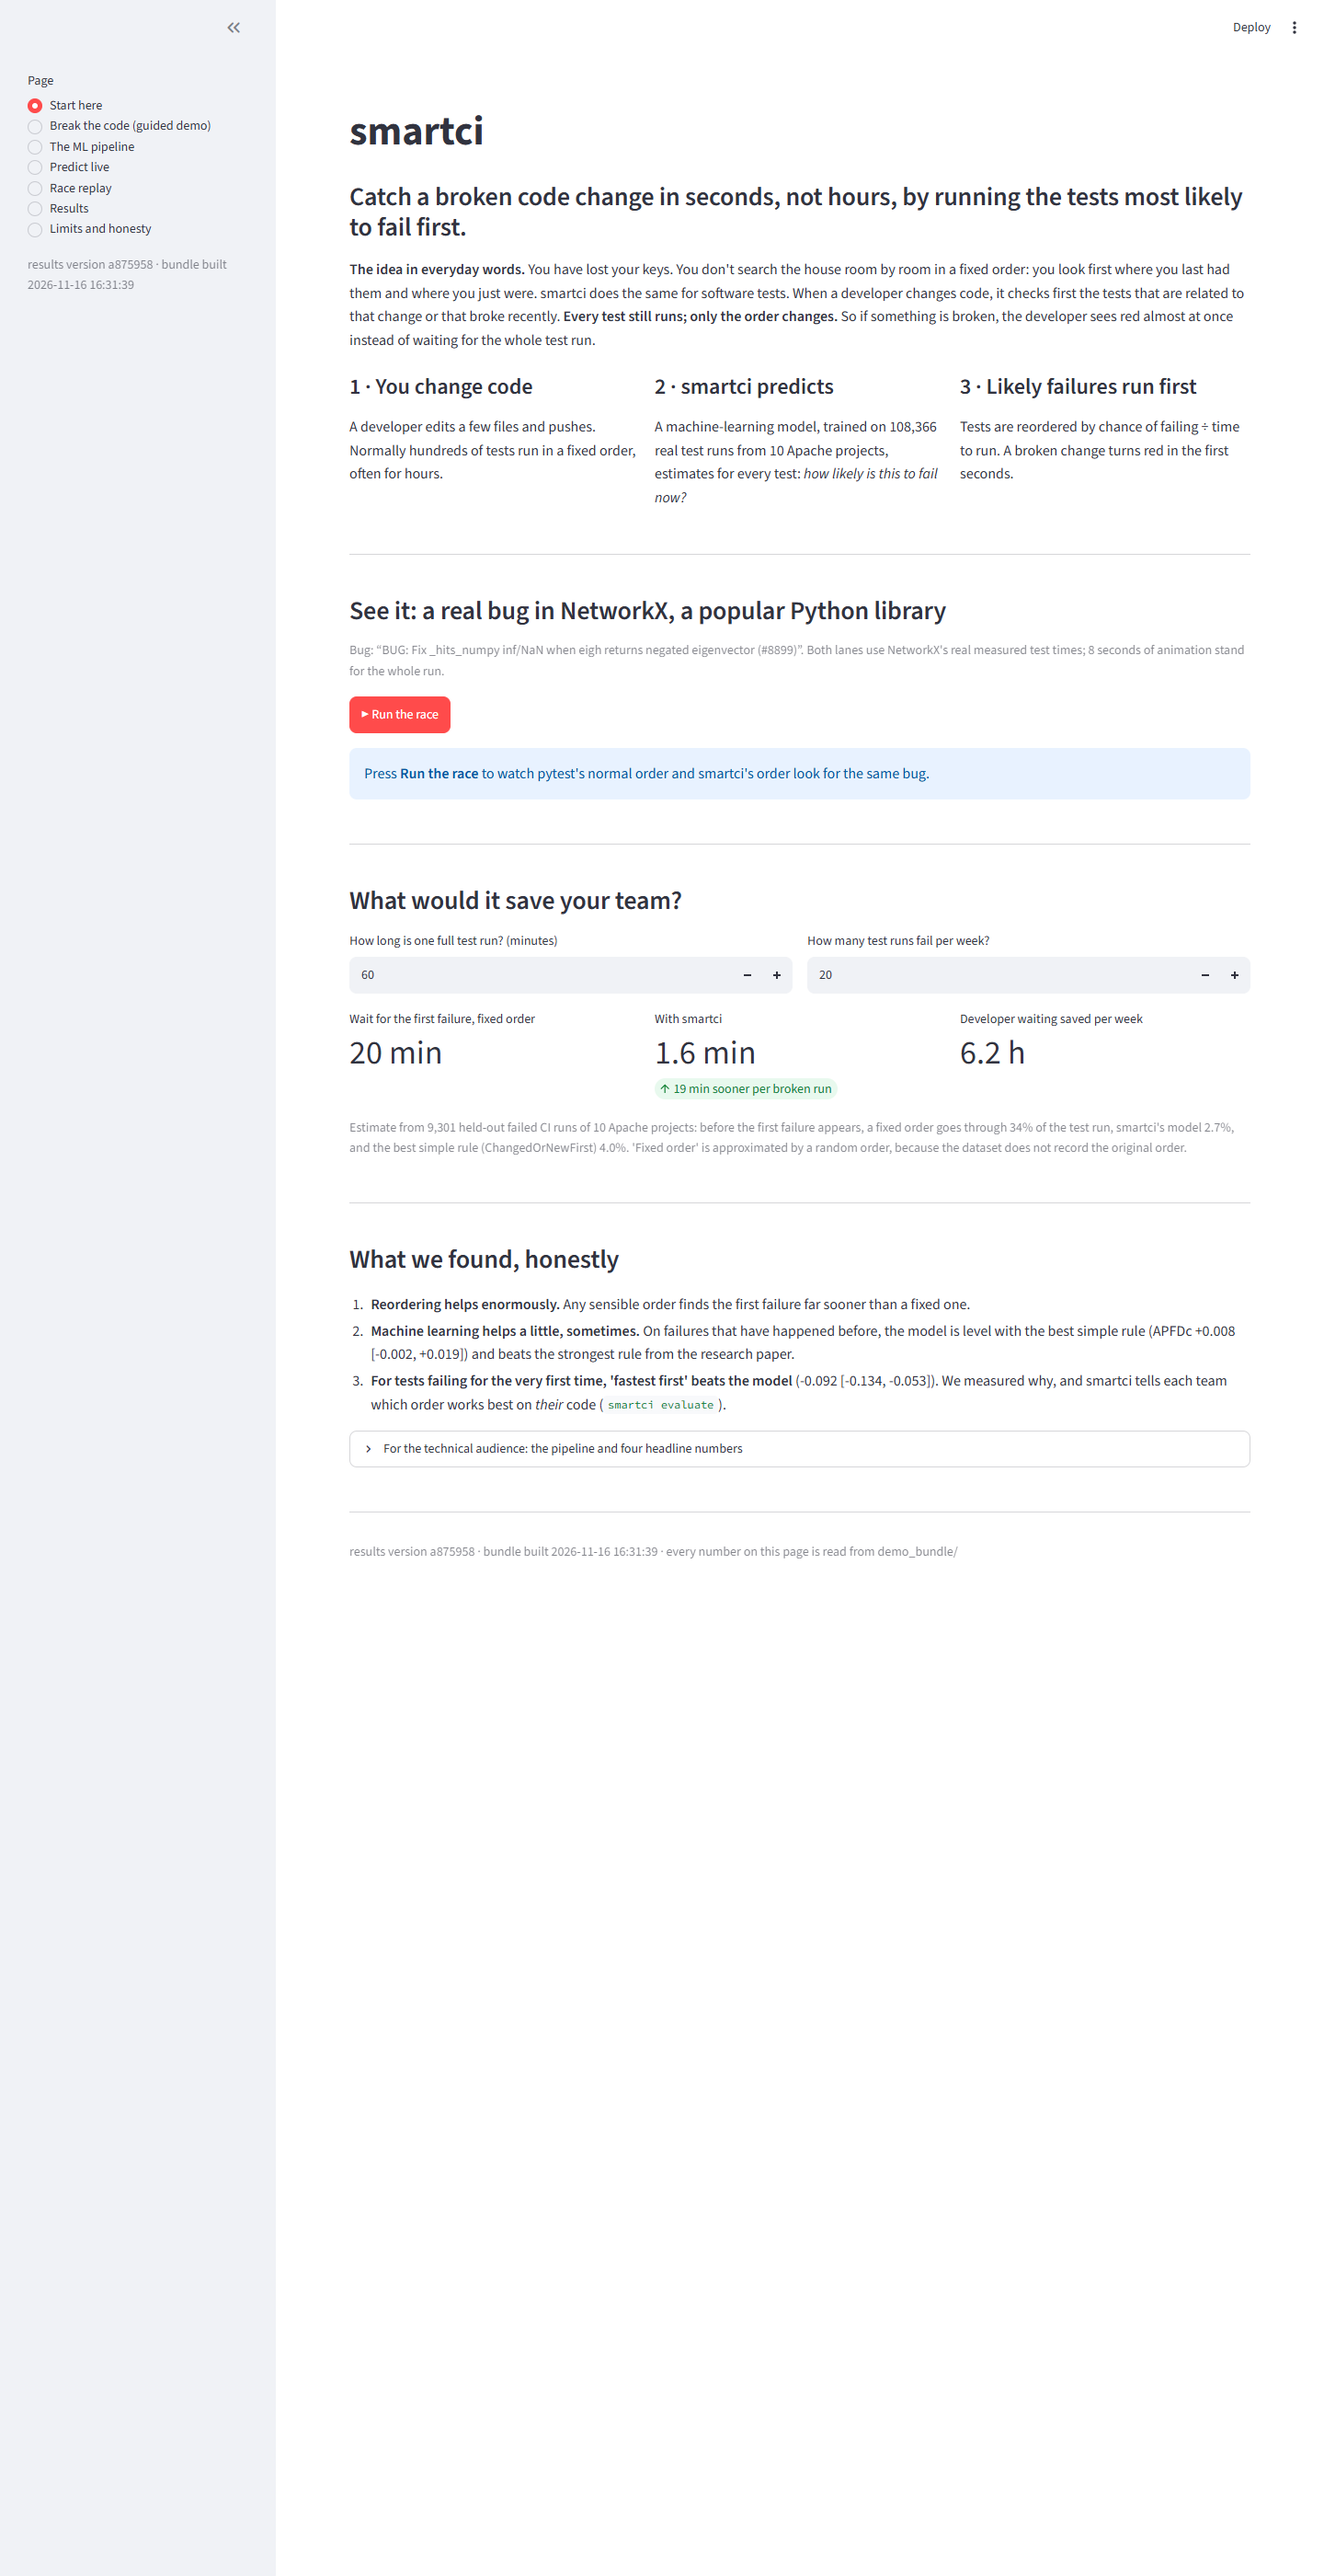
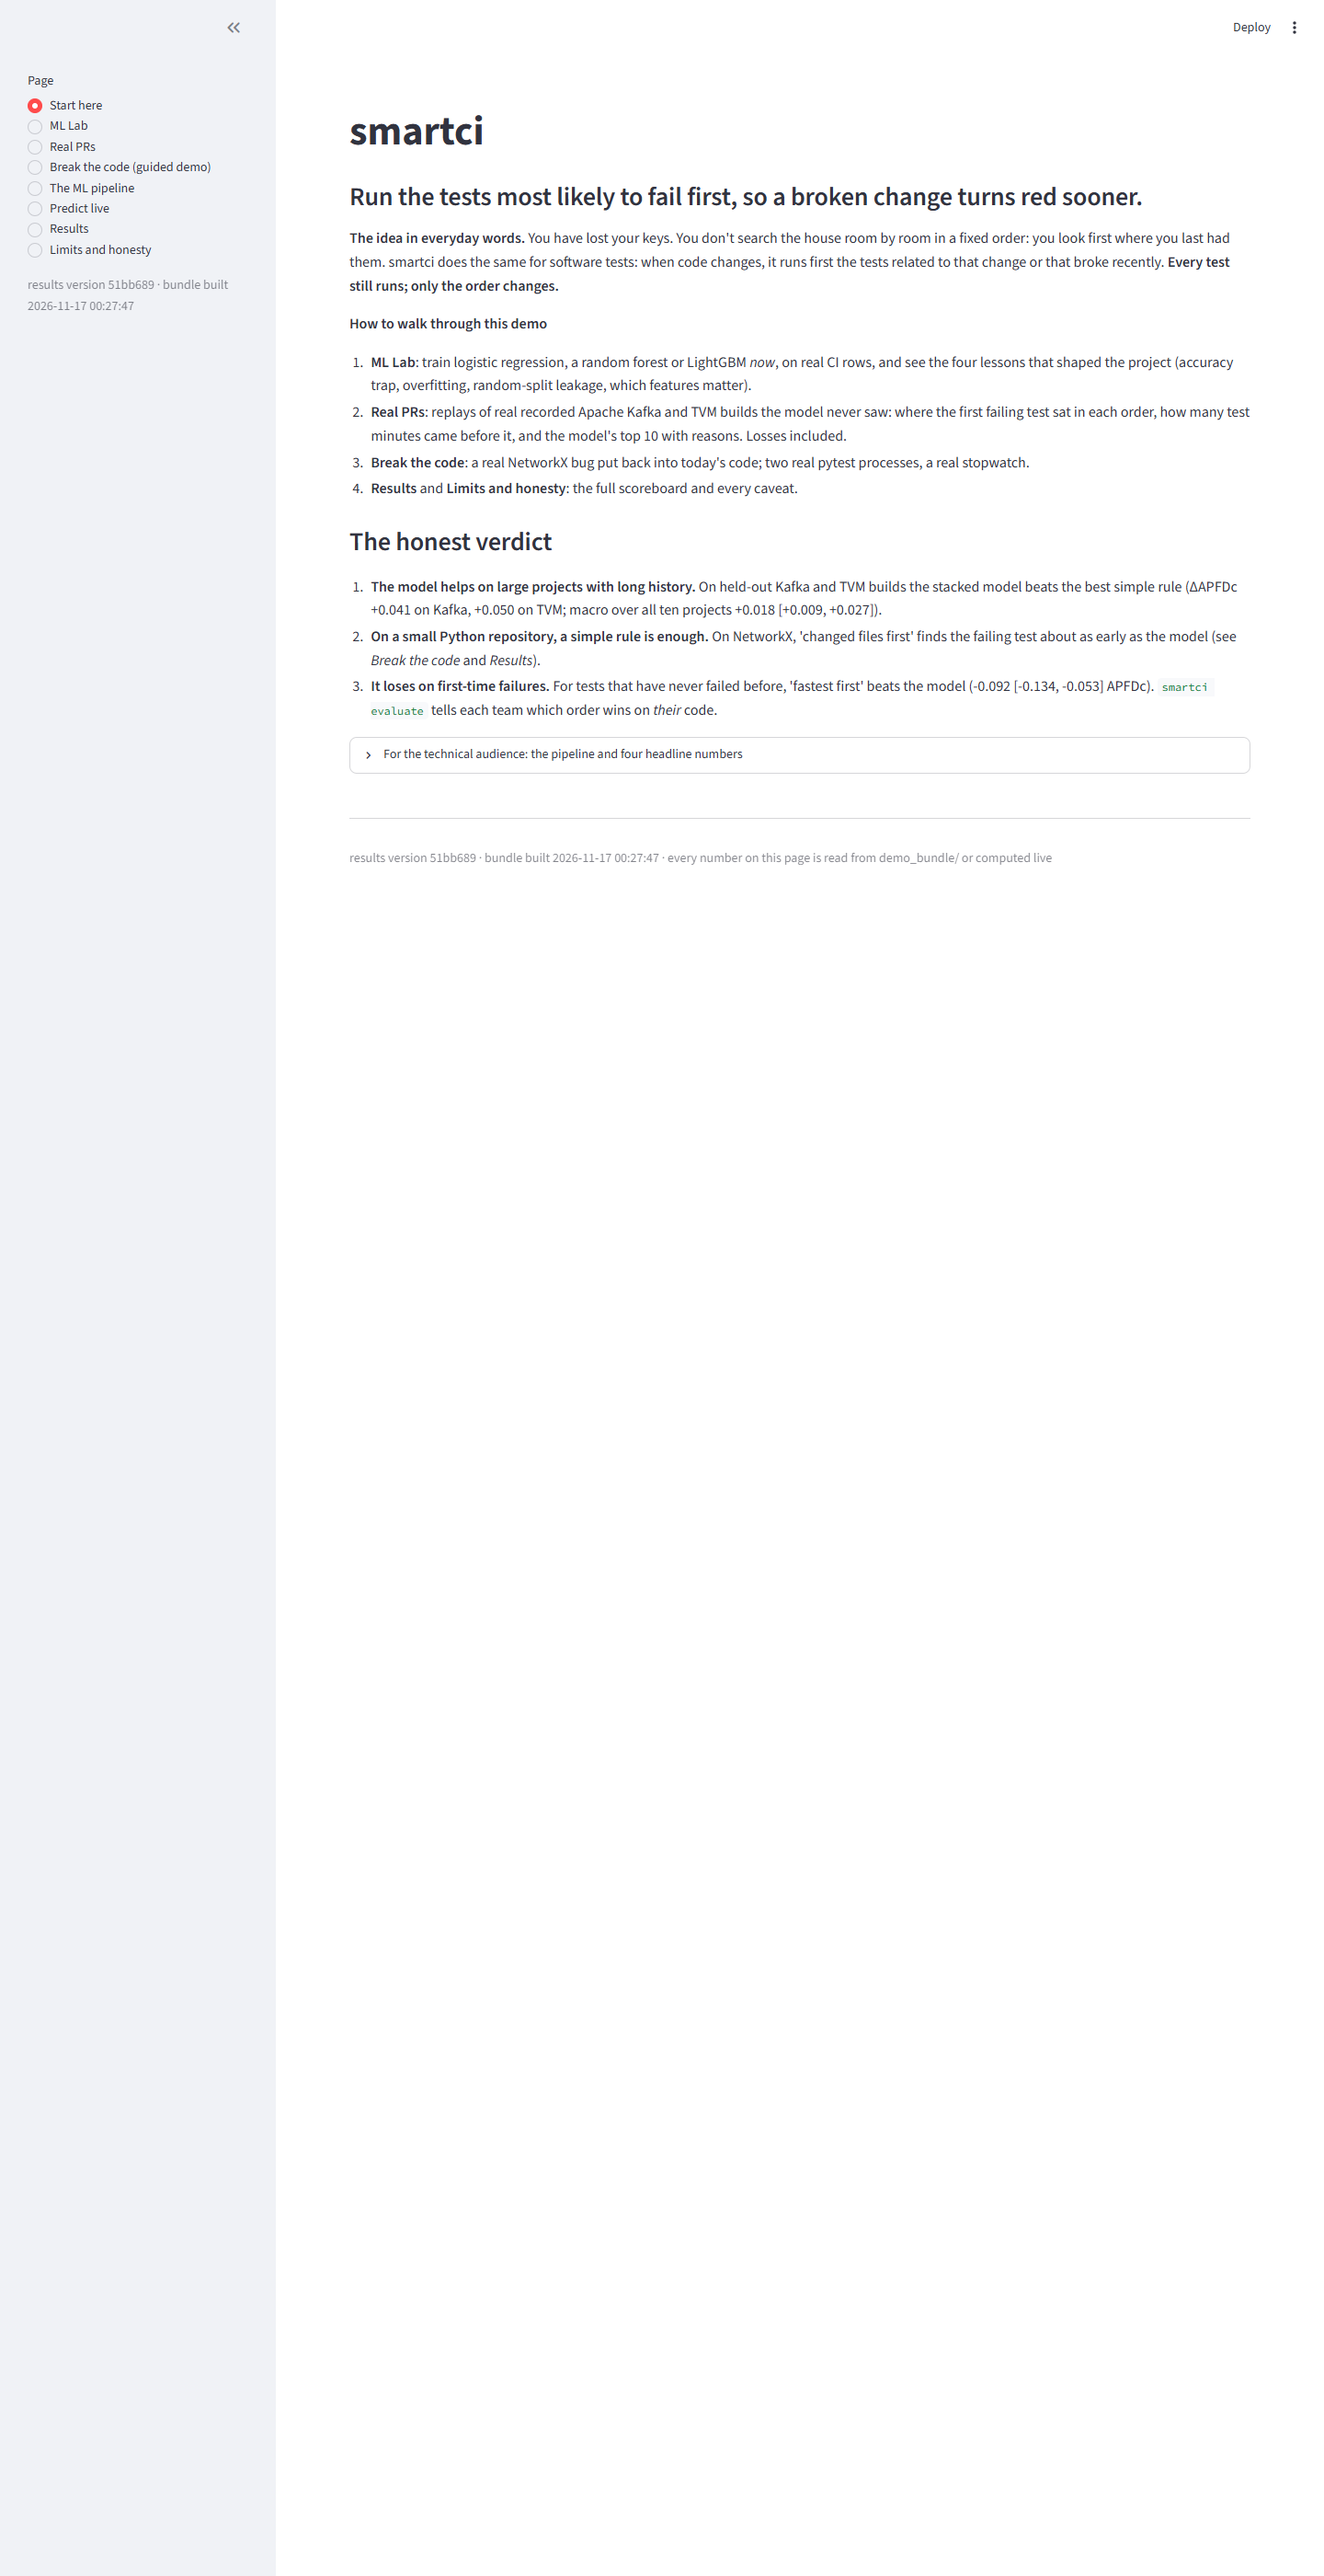
Real PRs: show won/tied/lost in full (was truncated); screenshots of the eight pages

diff --git a/scripts/capture_screenshots.py b/scripts/capture_screenshots.py
@@ -4,15 +4,15 @@ Requires: pip install playwright   (then either `python -m playwright install ch
           drive the Microsoft Edge that ships with Windows)
 Usage:    start the demo (scripts/run_demo.ps1), then:
           python scripts/capture_screenshots.py [--url http://localhost:8501] [--channel msedge]
-Output:   reports/demo_screenshots/<nn>_<page>.png (plus one per ML-pipeline tab and per race source)
+Output:   reports/demo_screenshots/<nn>_<page>.png (plus one per ML-pipeline tab, a run ML Lab experiment and Break the code with the model on)
 """
 from __future__ import annotations
 
 import argparse
 from pathlib import Path
 
-PAGES = ["Start here", "Break the code (guided demo)", "The ML pipeline", "Predict live", "Race replay", "Results",
-         "Limits and honesty"]
+PAGES = ["Start here", "ML Lab", "Real PRs", "Break the code (guided demo)", "The ML pipeline", "Predict live",
+         "Results", "Limits and honesty"]
 TABS = ["1 EDA", "2 Features", "3 Classification", "4 Regularization", "5 Tuning", "6 Ensembles", "7 Performance"]
 
 
@@ -58,10 +58,14 @@ def main() -> None:
                     page.get_by_role("tab", name=tab).click()
                     page.wait_for_timeout(1500)
                     shot(page, f"{i:02d}_{j}_{slug(tab)}")
-            if name == "Race replay":
-                page.get_by_text("LRTS held-out builds", exact=True).click()
-                page.wait_for_timeout(a.wait)
-                shot(page, f"{i:02d}_b_lrts")
+            if name == "ML Lab":                     # the first experiment, run live
+                page.get_by_role("button", name="Run this experiment").first.click()
+                page.wait_for_timeout(a.wait * 2)
+                shot(page, f"{i:02d}_b_experiment_run")
+            if name == "Break the code (guided demo)":
+                page.get_by_test_id("stCheckbox").get_by_text("Run the model now").click()
+                page.wait_for_timeout(a.wait * 2)
+                shot(page, f"{i:02d}_b_model_run")
         b.close()
 
 

diff --git a/app/demo.py b/app/demo.py
@@ -724,14 +724,14 @@ def page_real_prs():
         return
     M, W = R("models"), R("real_prs_wins")
     d = get(M, "vs_best_simple", "All", "macro10", "stack", "per_project", default={})
-    cols = st.columns(4)
-    for c, p in zip(cols[:2], ("kafka", "tvm")):
+    cols = st.columns(2)
+    for c, p in zip(cols, ("kafka", "tvm")):
         w = get(W, "projects", p, default={})
+        n = {o: w.get(o, {}).get("n_builds", 0) for o in ("win", "tie", "loss")}
         c.metric(f"{p}: model − best rule (APFDc, all held-out builds)", f"{d.get(p, 0):+.3f}",
                  help="From reports/results/models.json (vs_best_simple → All → stack).")
-        cols[2 + (p == "tvm")].metric(f"{p}: builds won / tied / lost",
-                                      " / ".join(f"{w.get(o, {}).get('n_builds', 0):,}" for o in ("win", "tie", "loss")),
-                                      help="Every held-out failed build; tie = |ΔAPFDc| < 0.001.")
+        c.markdown(f"**{p}: {n['win']:,} builds won · {n['tie']:,} tied · {n['loss']:,} lost**  \n"
+                   "(every held-out failed build; tie = |ΔAPFDc| < 0.001)")
     st.markdown(_wins_text(W))
     st.divider()
 
